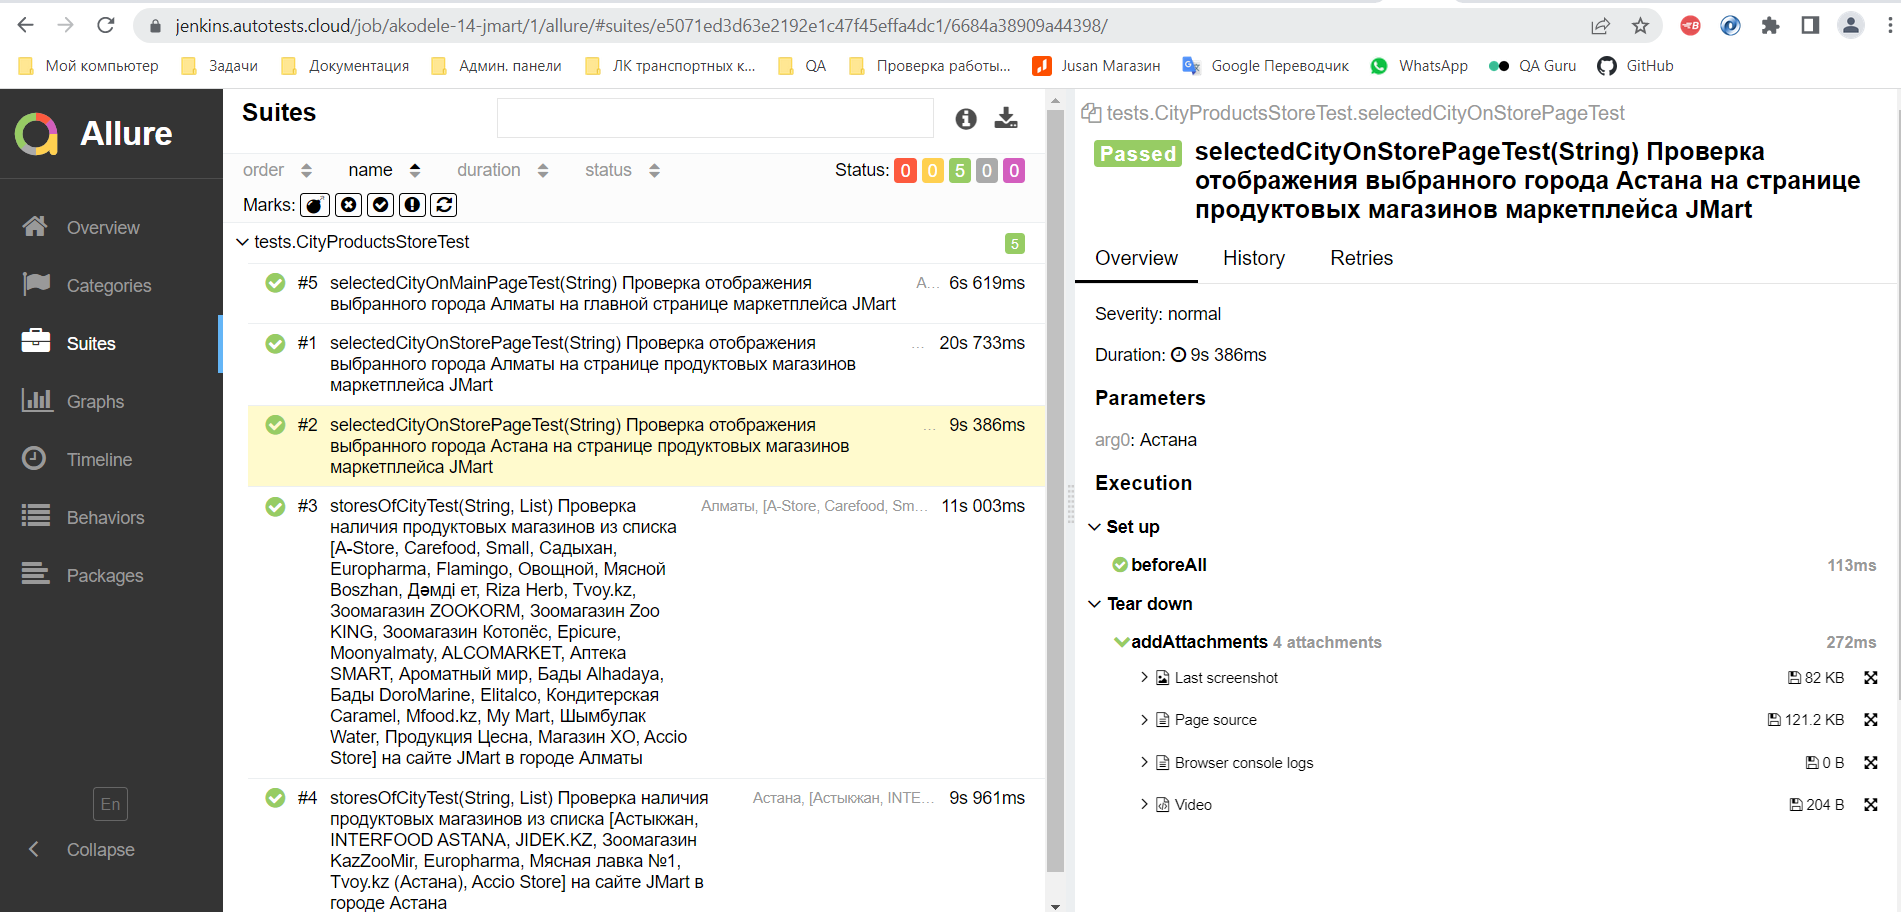
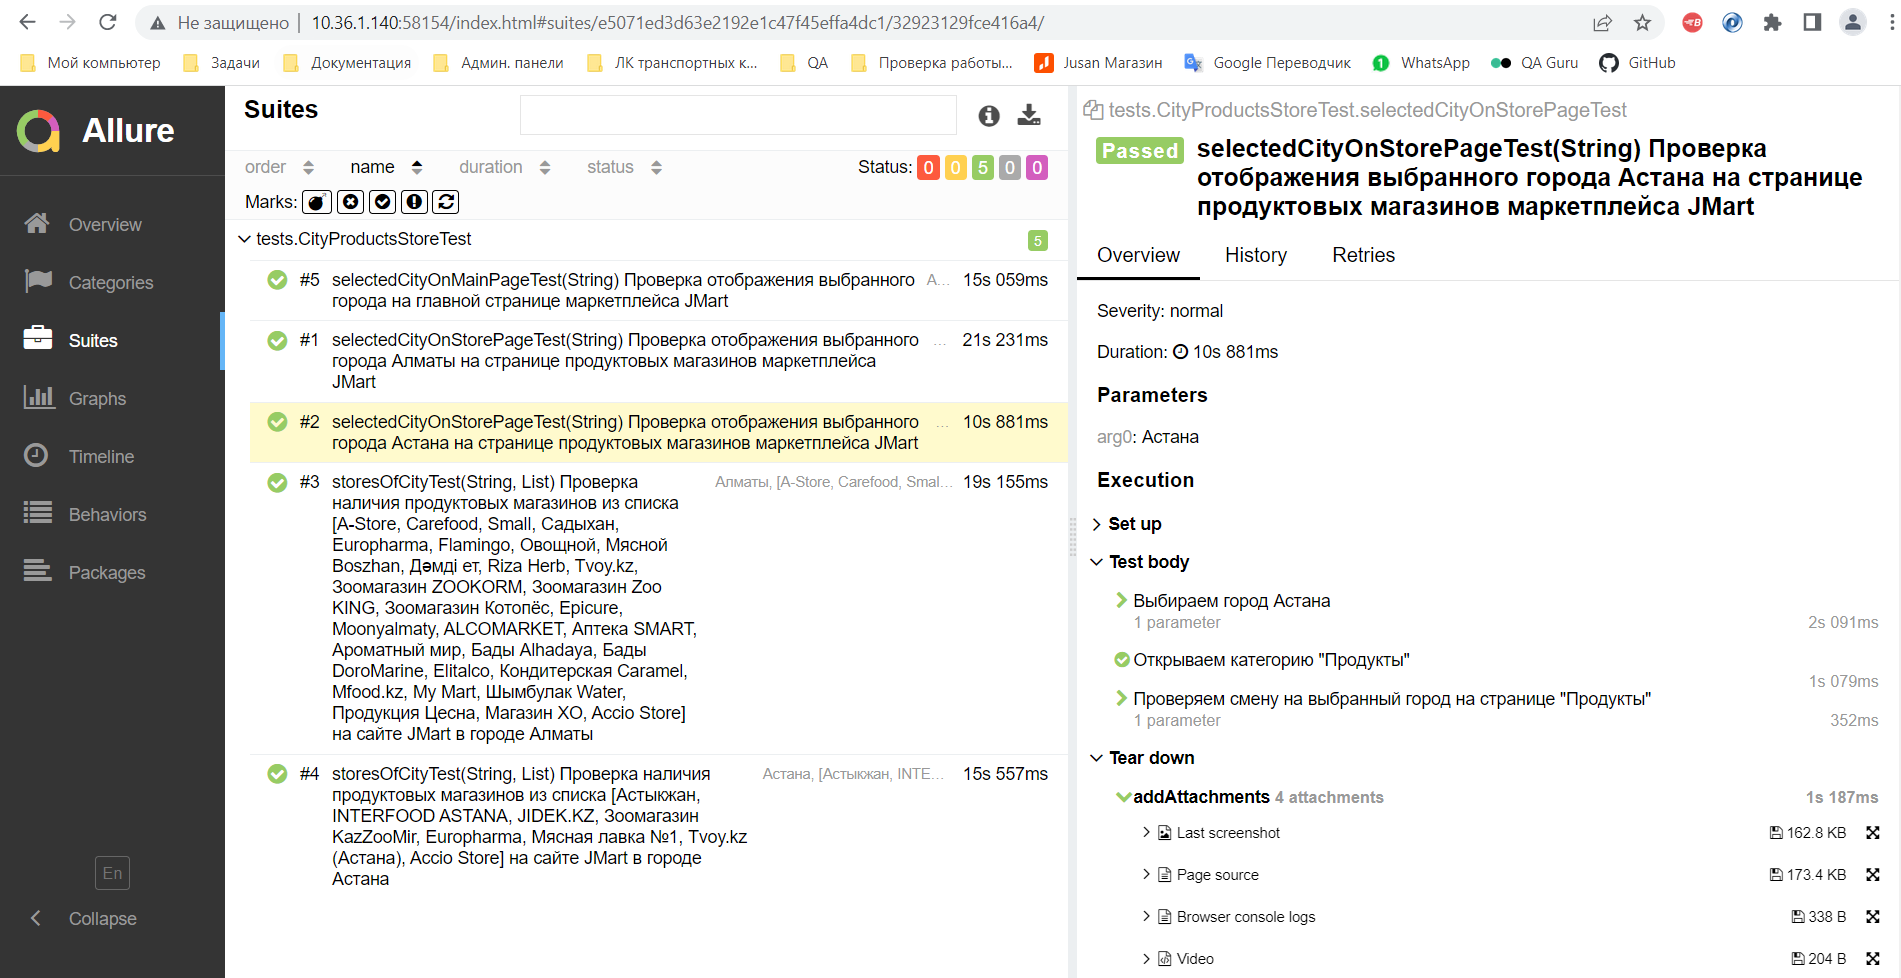
Add Allure-steps

diff --git a/src/test/java/pages/MainPage.java b/src/test/java/pages/MainPage.java
@@ -3,6 +3,7 @@ package pages;
 import com.codeborne.selenide.Condition;
 import com.codeborne.selenide.ElementsCollection;
 import com.codeborne.selenide.SelenideElement;
+import io.qameta.allure.Step;
 import pages.components.CitySelectModal;
 
 import static com.codeborne.selenide.Condition.text;
@@ -18,21 +19,19 @@ public class MainPage {
     ElementsCollection
             mainMenus = $$x(".//div[@class='sc-gKclnd sc-iqseJM eAsfZL gHYMmw sc-cabOPr JiVmU']//a");
 
+    @Step("Открываем категорию \"Продукты\"")
     public MainPage mainMenusSelectThird() {
         mainMenus.get(2).click();
         return this;
     }
 
+    @Step("Выбираем город {0}")
     public MainPage selectCity(String cityName){
         citySelectModal.citySelectAndClick(cityName);
         return this;
     }
 
-    public MainPage openCitySelectModal(){
-        selectedCity.click();
-        return this;
-    }
-
+    @Step("Проверяем название города на главной странице")
     public MainPage checkCityNameOnMainPage(String city){
         selectedCity.shouldHave(text(city));
         return this;

diff --git a/src/test/java/pages/StoresPage.java b/src/test/java/pages/StoresPage.java
@@ -3,6 +3,7 @@ package pages;
 import com.codeborne.selenide.CollectionCondition;
 import com.codeborne.selenide.ElementsCollection;
 import com.codeborne.selenide.SelenideElement;
+import io.qameta.allure.Step;
 
 import java.util.List;
 
@@ -17,11 +18,13 @@ public class StoresPage {
     ElementsCollection
             storeNameElements=$$x("//h2[@class='sc-kDTinF dxwvzv']");
 
+    @Step("Проверяем смену на выбранный город на странице \"Продукты\"")
     public StoresPage checkSelectedCity(String city){
         cityOfStores.shouldHave(text(city));
         return this;
     }
 
+    @Step("Проверяем отображение продуктовых магазинов")
     public void checkStoresNames(List<String> storeNames){
         storeNameElements.shouldHave(CollectionCondition.texts(storeNames));
     }

diff --git a/src/test/java/pages/components/CitySelectModal.java b/src/test/java/pages/components/CitySelectModal.java
@@ -2,6 +2,7 @@ package pages.components;
 
 import com.codeborne.selenide.ElementsCollection;
 import com.codeborne.selenide.SelenideElement;
+import io.qameta.allure.Step;
 
 import static com.codeborne.selenide.Condition.appear;
 import static com.codeborne.selenide.Condition.text;
